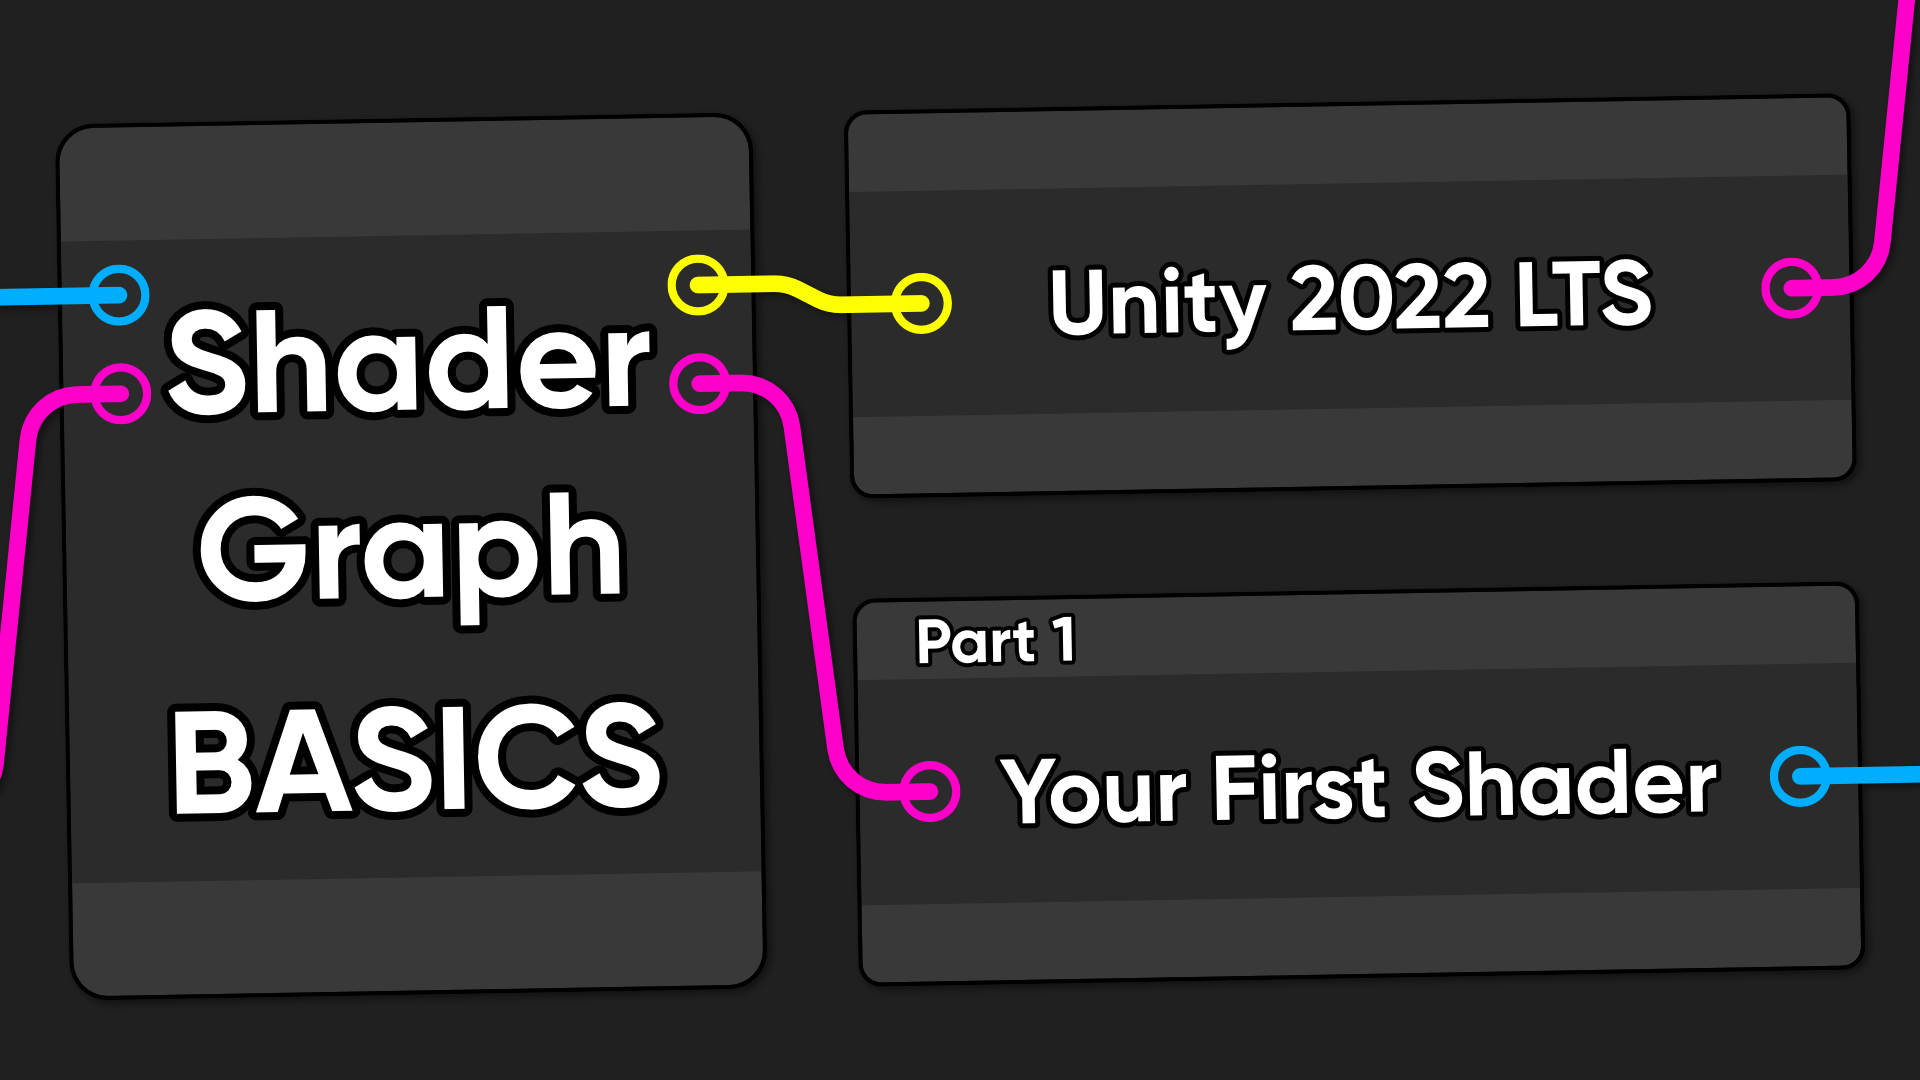
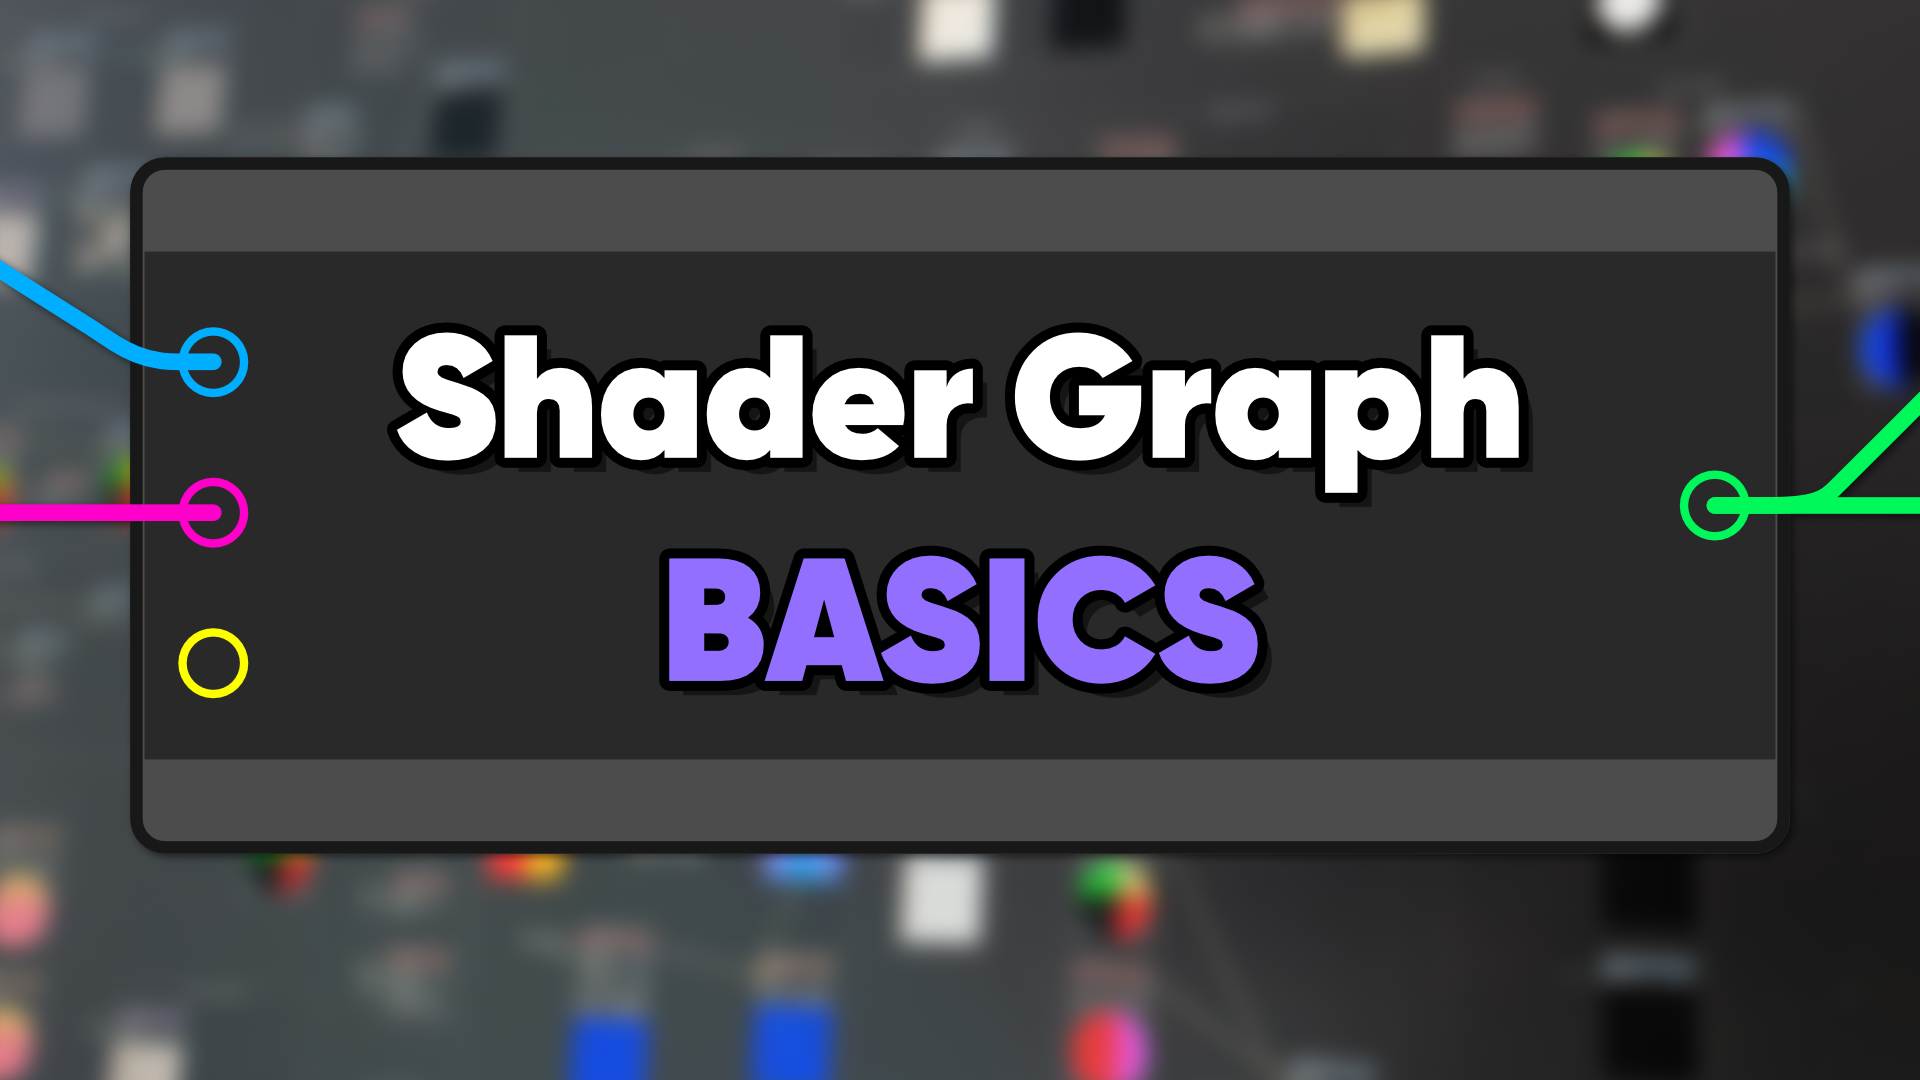
Updated README and thumbnail.

diff --git a/README.md b/README.md
@@ -24,6 +24,8 @@ This project is part of a tutorial series which is available in the following pl
 - [danielilett.com - Part 3](https://danielilett.com/2023-12-11-tut7-5-intro-to-shader-graph-part-3/)
 - [YouTube - Part 4](https://www.youtube.com/watch?v=MndZYDHB4zE)
 - [danielilett.com - Part 4](https://danielilett.com/2023-12-20-tut7-6-intro-to-shader-graph-part-4/)
+- [YouTube - Part 5](https://www.youtube.com/watch?v=2KSLO9JnxHA)
+- [danielilett.com - Part 5](https://danielilett.com/2024-02-13-tut7-7-intro-to-shader-graph-part-5/)
 
 ## Authors
 
